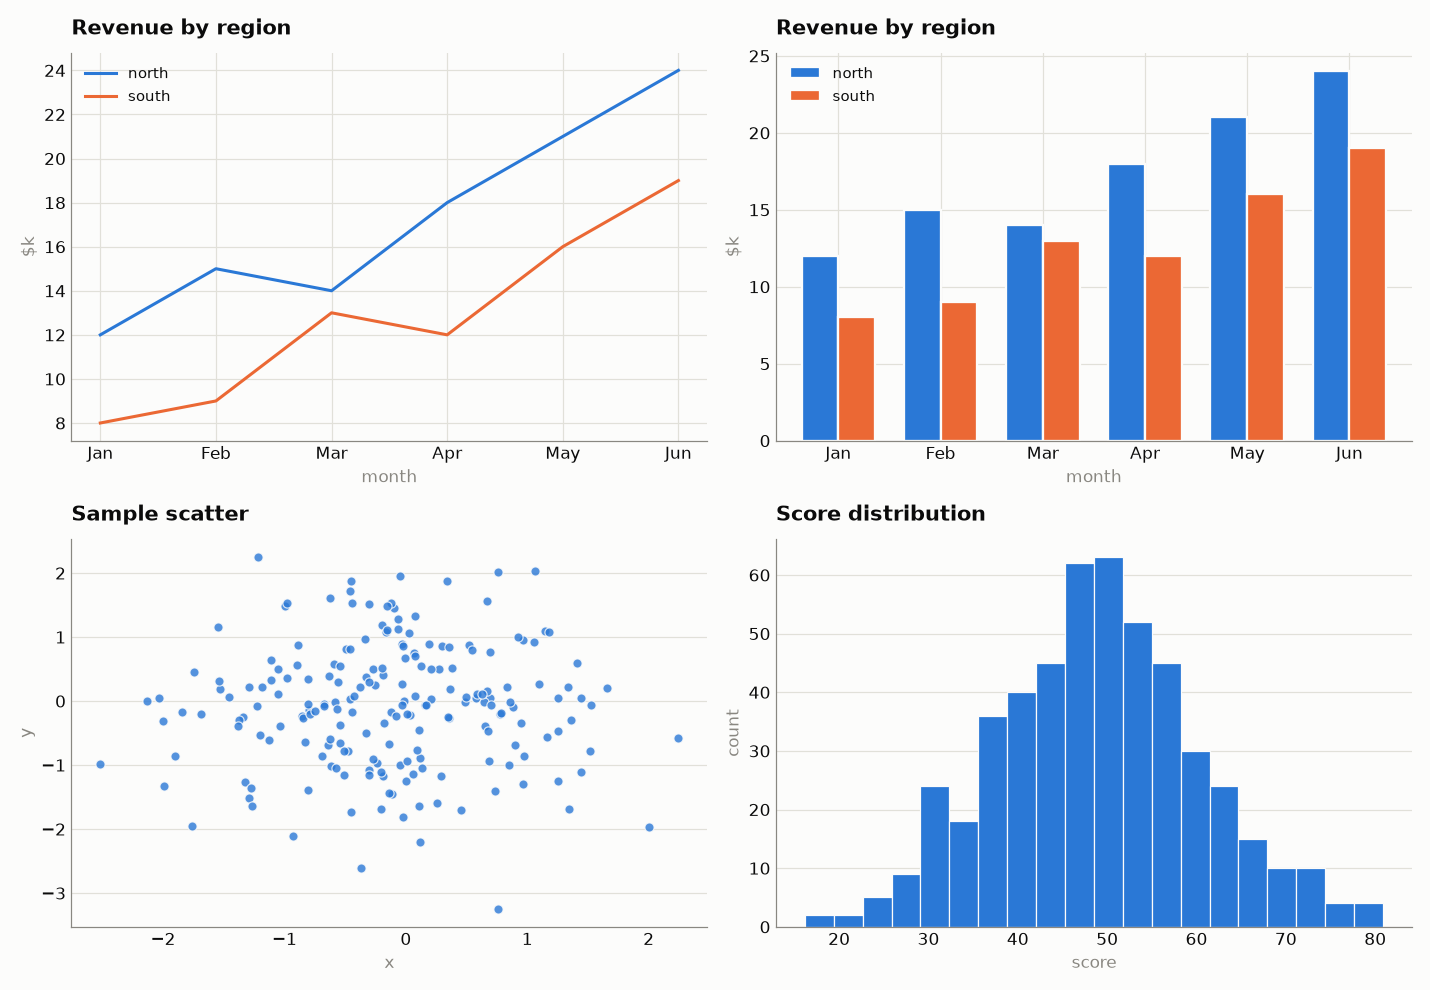
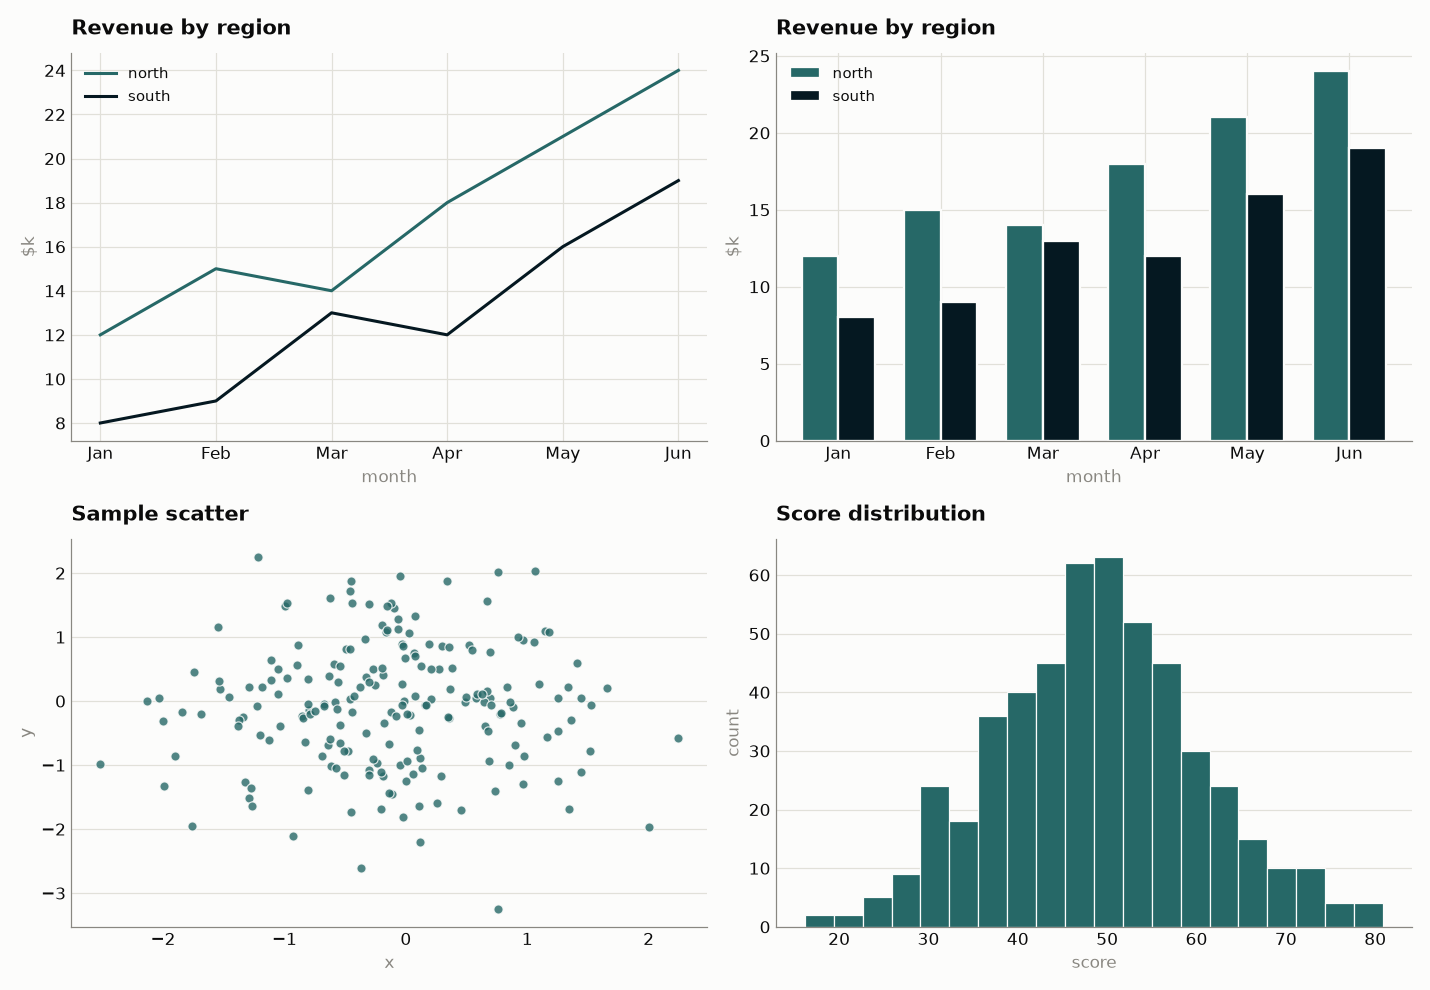
Set default colors to teal (#266867) and deep teal (#051821)
The first two palette slots are now the project's teal defaults; slot 1
is also the single-color default for scatter/hist. Remaining slots keep
the colorblind-safe reference colors for charts with 3+ series.
Regenerated the example gallery.

Claude-Session: https://claude.ai/code/session_01BJ7myt9rQFKU3LXRV561cU

diff --git a/customplots/core.py b/customplots/core.py
@@ -9,12 +9,14 @@ from __future__ import annotations
 
 import matplotlib.pyplot as plt
 
-# Colorblind-safe categorical palette, assigned in fixed order (never cycled
-# past its length). Values are the validated data-viz reference palette.
+# Categorical palette, assigned in fixed order (never cycled past its length).
+# The first two slots are the project's default colors; the remaining slots
+# fall back to the validated colorblind-safe reference palette for charts with
+# three or more series.
 PALETTE = [
-    "#2a78d6",  # blue
+    "#266867",  # teal        (default 1 — also the single-color default)
+    "#051821",  # deep teal   (default 2)
     "#eb6834",  # orange
-    "#1baf7a",  # aqua
     "#eda100",  # yellow
     "#e87ba4",  # magenta
     "#008300",  # green
